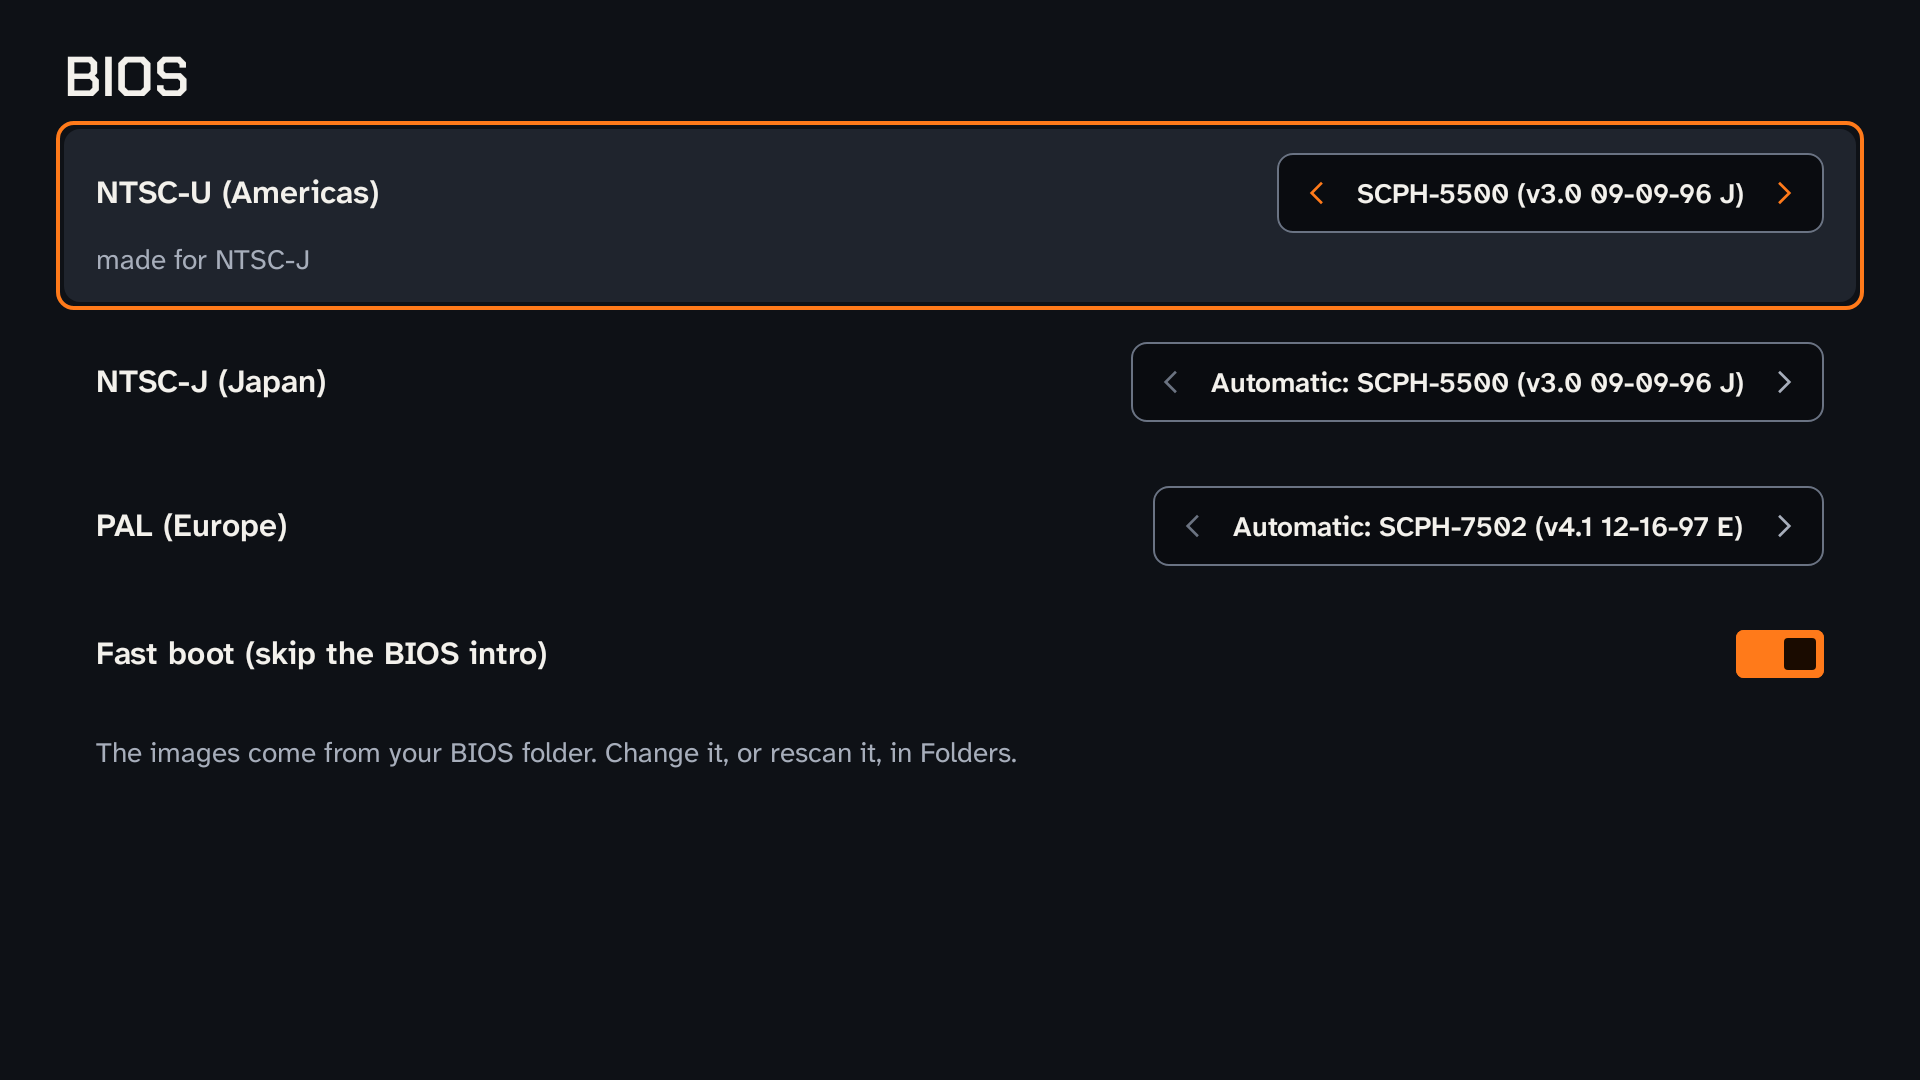
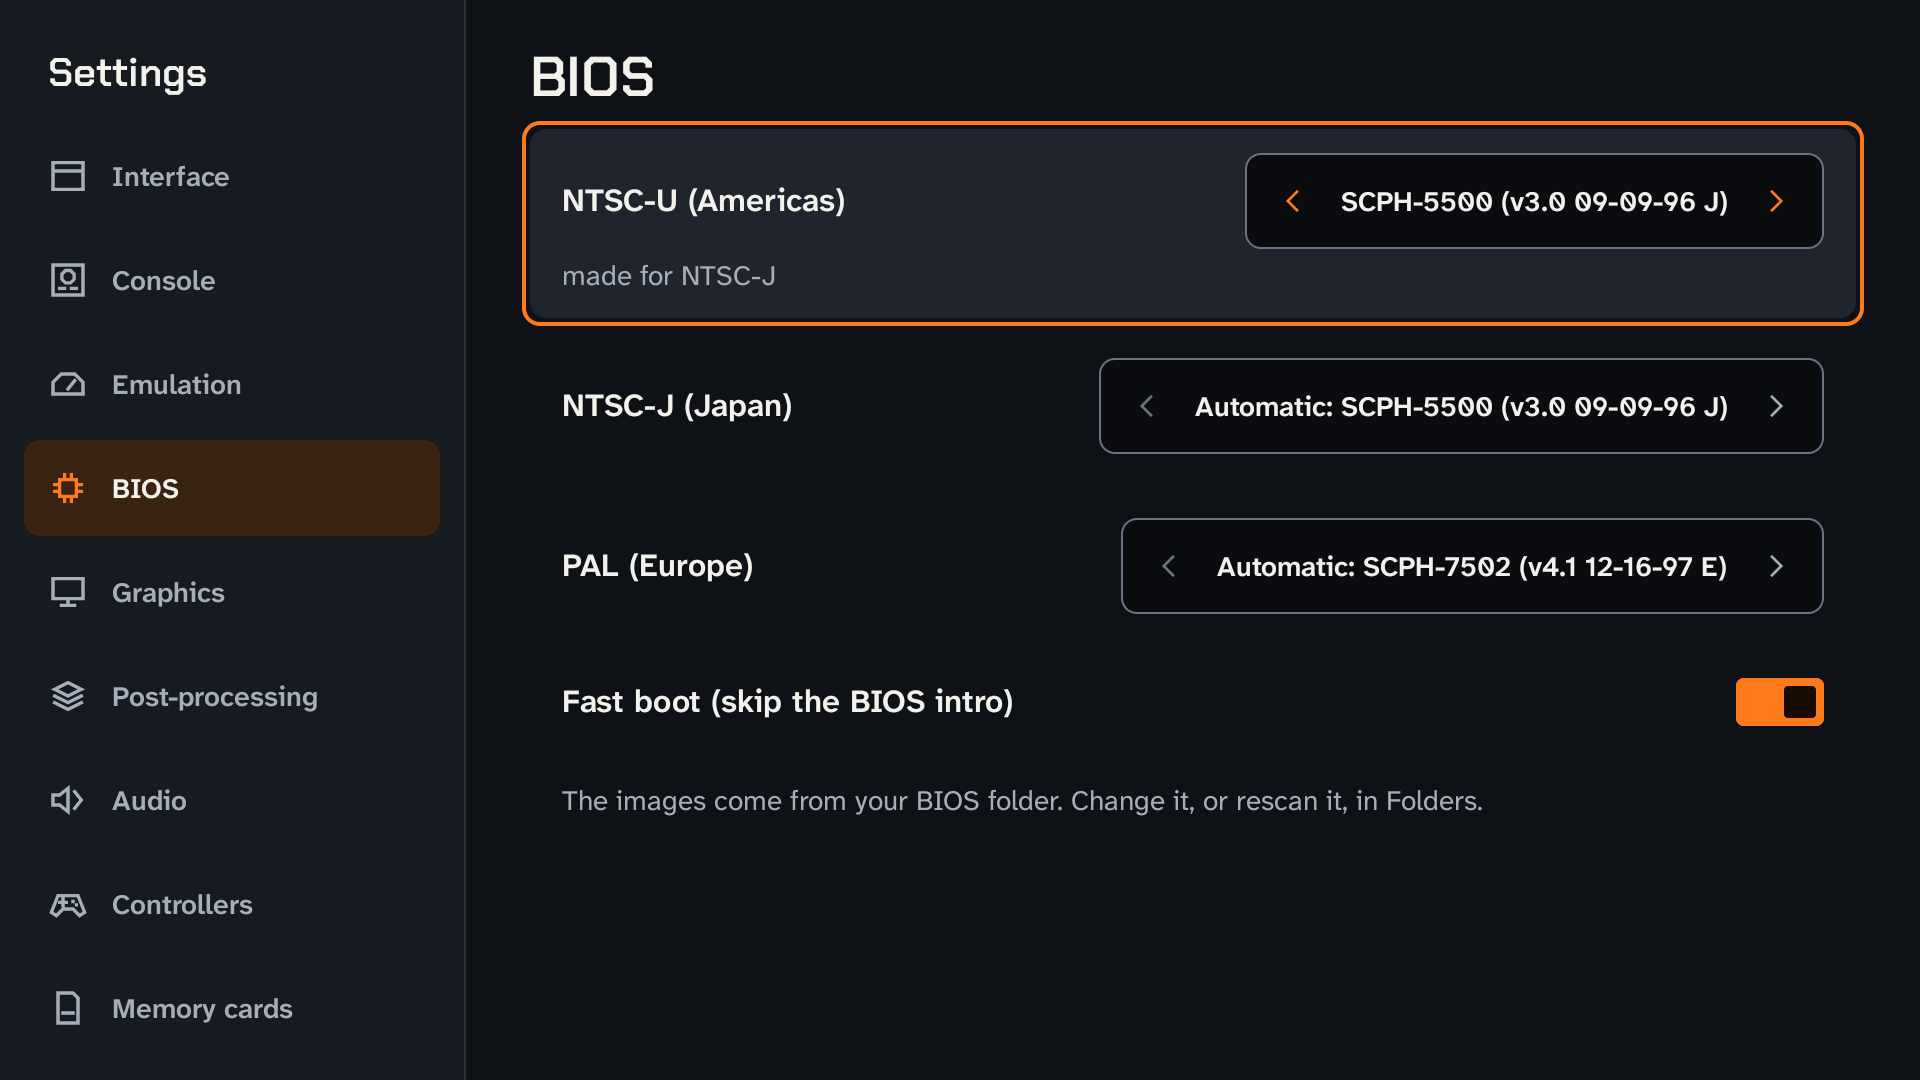
Docs: the settings' two panels in the screenshots, the checks and the roadmap
- docs/design-system/screenshots: settings.png, graphics.png and bios.png
  show the two panels (the settings as they open, then a page with the focus
  in it), and settings-list.png the categories as a narrow window lists
  them. Drawn from the Compose code on the Thor, at the other pictures'
  sizes.
- docs/design-system.md says what each picture is.
- docs/android.md: the Thor's results for #102's tests, a step for the
  panels in its checklist, and "the hub" where it meant the settings.
- docs/roadmap.md: the two panels in the Android frontend's row.

diff --git a/docs/roadmap.md b/docs/roadmap.md
@@ -44,7 +44,7 @@ built clean-room, from behaviour and our own design, never from DuckStation's co
 | 13 | ~~Updated dependencies.~~ Done (#16): Qt 6.12 LTS (macOS 14.4+), SDL2 2.32.10, VS 2026 on the `windows-2025` runner, clang 21 on Linux, Xcode 16.4 on `macos-15` (`macos-14` is deprecated), and the Flatpak on the KDE 6.11 runtime. | M | 1 |
 | 14 | ~~Text entry in Big Picture.~~ Done (#17), through the platforms' own keyboards rather than one of ours (upstream's on-screen keyboard is in [Later](#later)). Big Picture tells the host when a text field starts and stops being edited; under Steam (a Steam Deck in game mode, Big Picture mode) that shows Steam's keyboard, with the number pad for number fields, unless the field was opened with a physical keyboard. Ctrl+V (Cmd+V on macOS), and X (Square on PlayStation pads) in the text input dialog, paste the first line of the system clipboard. Still unchecked on a Steam Deck: whether Steam asks for its keyboard for a non-Steam shortcut, and whether the Flatpak opens `steam://` links without asking which app to use. Android's own screens are native, so they use Android's keyboard directly (item 16). | S | none |
 | 15 | ~~SDL3.~~ Done (#19): SDL 3.4 replaces SDL2 as a drop-in (SDL2 gets fixes only now; support for new controllers lands in SDL3), for controller input and the SDL audio backend, with the same features, bindings and settings. Not motion sensors or the touchpad, which PS1 games have no use for. Still unchecked, for lack of a controller: hot-plugging, rumble and LEDs, DualShock 4/DualSense over Bluetooth with enhanced mode off and on, and Switch controllers' analog sticks and face-button bindings. | M | 13 |
-| 16 | Android frontend, our own and written independently (not DuckStation's closed-source app, not RetroArch). The emusync Android library already exists. Its screens are native Android ones, so text entry uses Android's keyboard. Stage 1, Plan 1 (the emulator on Android) is done (#23); Plan 2 (storage, setup and the library: the folder picker, the data folder's mirror, and a cover grid) is done (#25). Plan 3 (settings, remapping and the Back prompt) is done (#29), which completes Stage 1. The in-game menu followed in three parts: part 1 (save states with screenshots, a resume state, fast forward, analog mode, screenshot, reset, hotkeys and on-screen messages) is done (#33), part 2 (multi-disc games as one tile, Change disc, one set of saves per game, patch codes) is done (#37), and part 3 (RetroAchievements: sign-in with the token in the Keystore, hardcore mode, the achievements and leaderboards in the menu, unlocks over the game) is done (#38). Achievements without a connection followed: unlocks and entries kept on the device and sent, backdated, once the network is back, and a game started offline running in casual from its saved set. Memory card sync followed, through emusync's Android library: the same settings page as desktop, secrets in the Keystore, sync on the working copy while the app is open (resting in the background), a badge in the library, and conflicts settled after the game (#41). The memory card editor followed: Settings → Memory cards → Manage cards, two cards side by side with everything the desktop editor does (copy, rename, export and import saves, delete and undelete, import a card, format), edits held until Save, and Save synced through emusync for the cards it knows. Android's settings followed, in four stages, and now have everything desktop has that works on Android, by desktop's keys: the global pages (#45), controllers with ports, types, macros, hotkeys and rumble (#48), settings for each game from its tile and its in-game menu (#51), and post-processing (both shader chains, from the shaders that run here) and Advanced (#52). On-screen touch controls followed, for phones and tablets without a controller: a full PS1 pad over the game (sticks in analog mode), shown in Automatic with no controller connected, Always or Off, at the player's size and opacity, driving Port 1. Save state management followed: desktop's shared (global) slots as a tab in Save and Load, a shared slot of another game starting that game, delete, Undo load in the menu (refused in hardcore mode, as loads are), and a game's Saves from its library tile (#63). Library sort and search followed: a compact top bar of icon buttons with labels on focus, Big Picture's sorts in its own keys (so a shared data folder sorts alike on desktop), and a search by title, file name or serial, Select jumping to it. Cover downloads followed: a Covers page in Settings with the player's own URL templates (one preset, xlenore's PSX cover collection, which the player can edit or remove; GooseStation hosts nothing), Save covers by serial, and Download covers, only when asked, for each library tile without a cover, cancellable mid-request, never replacing a cover, the covers landing on their tiles as they come. Published APKs followed: each rolling release carries a release APK signed with GooseStation's key (in a protected `release` environment, read only by the signing job of a release run on `master` or `dev`), with a version code that grows with each commit, R8's kept classes checked against what JNI looks up, and a test-key release build launched in the local test tiers; debug builds became GooseStation Debug (`.debug`), with a data folder of their own; and release builds check their channel for updates, as desktop does (a library banner with Update, What's new and Skip this version, the APK checked as this app's before Android's installer, and the Interface settings) (#72). | L | 12 |
+| 16 | Android frontend, our own and written independently (not DuckStation's closed-source app, not RetroArch). The emusync Android library already exists. Its screens are native Android ones, so text entry uses Android's keyboard. Stage 1, Plan 1 (the emulator on Android) is done (#23); Plan 2 (storage, setup and the library: the folder picker, the data folder's mirror, and a cover grid) is done (#25). Plan 3 (settings, remapping and the Back prompt) is done (#29), which completes Stage 1. The in-game menu followed in three parts: part 1 (save states with screenshots, a resume state, fast forward, analog mode, screenshot, reset, hotkeys and on-screen messages) is done (#33), part 2 (multi-disc games as one tile, Change disc, one set of saves per game, patch codes) is done (#37), and part 3 (RetroAchievements: sign-in with the token in the Keystore, hardcore mode, the achievements and leaderboards in the menu, unlocks over the game) is done (#38). Achievements without a connection followed: unlocks and entries kept on the device and sent, backdated, once the network is back, and a game started offline running in casual from its saved set. Memory card sync followed, through emusync's Android library: the same settings page as desktop, secrets in the Keystore, sync on the working copy while the app is open (resting in the background), a badge in the library, and conflicts settled after the game (#41). The memory card editor followed: Settings → Memory cards → Manage cards, two cards side by side with everything the desktop editor does (copy, rename, export and import saves, delete and undelete, import a card, format), edits held until Save, and Save synced through emusync for the cards it knows. Android's settings followed, in four stages, and now have everything desktop has that works on Android, by desktop's keys: the global pages (#45), controllers with ports, types, macros, hotkeys and rumble (#48), settings for each game from its tile and its in-game menu (#51), and post-processing (both shader chains, from the shaders that run here) and Advanced (#52). On-screen touch controls followed, for phones and tablets without a controller: a full PS1 pad over the game (sticks in analog mode), shown in Automatic with no controller connected, Always or Off, at the player's size and opacity, driving Port 1. Save state management followed: desktop's shared (global) slots as a tab in Save and Load, a shared slot of another game starting that game, delete, Undo load in the menu (refused in hardcore mode, as loads are), and a game's Saves from its library tile (#63). Library sort and search followed: a compact top bar of icon buttons with labels on focus, Big Picture's sorts in its own keys (so a shared data folder sorts alike on desktop), and a search by title, file name or serial, Select jumping to it. Cover downloads followed: a Covers page in Settings with the player's own URL templates (one preset, xlenore's PSX cover collection, which the player can edit or remove; GooseStation hosts nothing), Save covers by serial, and Download covers, only when asked, for each library tile without a cover, cancellable mid-request, never replacing a cover, the covers landing on their tiles as they come. Published APKs followed: each rolling release carries a release APK signed with GooseStation's key (in a protected `release` environment, read only by the signing job of a release run on `master` or `dev`), with a version code that grows with each commit, R8's kept classes checked against what JNI looks up, and a test-key release build launched in the local test tiers; debug builds became GooseStation Debug (`.debug`), with a data folder of their own; and release builds check their channel for updates, as desktop does (a library banner with Update, What's new and Skip this version, the APK checked as this app's before Android's installer, and the Interface settings) (#72). The settings then moved into two panels: their categories in a rail down the left, each with an icon, and the page of the one in focus beside them, with the list kept for a narrow window (#102). | L | 12 |
 
 ## 4. Upstream features (clean room)
 

diff --git a/docs/android.md b/docs/android.md
@@ -660,7 +660,7 @@ picks the layout, and `ui/SettingsPanels.kt` is the two panels.
   speed below 100% says "Runs at 100% in hardcore mode."; an overclock below 100% says "Off in hardcore mode below
   100%.". Run-ahead isn't refused.
 
-- **The hub opens whenever the folder settings could**: even when the core failed to start, or during setup's first
+- **The settings open whenever the folder settings could**: even when the core failed to start, or during setup's first
   pull, so the folders can still be picked again. The other pages need the core: until it has started (and its first
   catch-up pulls are done, see "The data folder and its mirror"), they're shown disabled, with "Available once
   GooseStation has started." (in the two panels, one line at the rail's foot: "The other settings are available once
@@ -784,7 +784,7 @@ adb shell am start -n io.github.ilyalissoboi.goosestation.debug/io.github.ilyali
 
 ### Post-processing
 
-**Post-processing**, after Graphics in the hub, edits the core's two shader chains, as Qt's two tabs do, one at a
+**Post-processing**, after Graphics in the settings' categories, edits the core's two shader chains, as Qt's two tabs do, one at a
 time: its **Chain** switch, first, picks **Display** (`[PostProcessing]`, over the picture at the screen's resolution)
 or **Internal** (`[InternalPostProcessing]`, at the internal resolution, before the picture is scaled), with a line
 saying which is which, and opens on Display each time. Under it, the chosen chain's **On** switch (`Enabled`), its
@@ -2278,6 +2278,23 @@ over adb (`input -d 0 keyevent`, screenshots of display 0), on Wi-Fi. A real dow
 Step 17's other checks (Cancel mid-run, a game started or Home mid-run, Wi-Fi off, removing and restoring the preset)
 are still to do.
 
+### The settings in two panels (2026-11-14)
+
+The instrumented `ui` tests of #102, on the Thor (832 x 420 dp, text 1.0×), the debug build installed beside the
+release one and removed after. Compose tests, driven by injected keys: nobody has yet used the panels in the running
+app with a controller (step 8 of the checks below has it).
+
+| Check | Result |
+|---|---|
+| `SettingsPanelsTest` | Pass, 16 of 16: the page follows the focus down the rail; A, Enter, Right and a tap go into it; B, Back and Left come back; the D-pad stops at the page's edges; a question over the page keeps the focus and gives it back; the system's Back is the rail's once the focus is back on it; a narrow window lists the categories. |
+| `FocusAuditTest` | Pass, 105 of 105, with the panels alone, with the focus in the page, and before the core starts. |
+| `OverlayHostTest` | 5 of 6. `closingItLetsTheScreenTakeTheFocusBack` fails, as on `master` before #102: the closing panel's focus trap refuses the screen's own request, and nothing is focused. The settings' panels take the focus back themselves; a screen outside them doesn't. |
+
+The whole `ui` package ran on `goose-test-1` before `master` was merged in: 796 tests, 2 failing, both in
+`OrientationLayoutTest` (`graphicsThroughEachRowsChoices` at 640 x 360 dp and text 1.3×, and
+`aRowStaysPutAsTheFocusMovesAlongIt` at 960 x 540 dp and text 1.3×), and both failing the same way on `master` at
+`1ed569942`. It hasn't run since the merge.
+
 ## Checks on the AYN Thor
 
 The full checklist, on the Thor itself, with a controller and headphones. Find the Thor's serial with
@@ -2406,6 +2423,14 @@ adb logcat -v time > thor.log
      Internal resolution, Aspect ratio, each BIOS region, the Controller row with a second pad connected), the
      Controllers page and a capture on it, then back to the library. The focused element always has a ring, B goes
      back a step, and each page's entry in the hub (or **Settings** in the library) has the focus again after it.
+   - [ ] The settings in two panels, with the built-in controller alone: they open on Interface, its category
+     focused and its page beside it. Down and Up change the page as they go, through every category. A, then Right,
+     go into the page on its first row; B, then Left from a toggle's row, come back to the category; Left on a
+     cycler's row steps it. In Controllers, open Port 1, come back to the rail with Left, and swipe Back: the
+     settings close (and B on the rail does the same). Touch a row of a page, then swipe Back from Port 1: one step
+     back in the page. Memory cards → Manage cards and back: the focus is in the Memory cards page.
+   - [ ] A question over a page (Post-processing, a favourite, Delete): the rail dims with the page; Cancel, and the
+     focus is back in the page, with B still working.
    - [ ] B also goes back from a page whose only focusable line does nothing: "Reading the settings…" while a page
      loads, and "Connect a controller to remap it." with no controller connected (the framework turns `BUTTON_B`
      into Back there).

diff --git a/docs/design-system.md b/docs/design-system.md
@@ -37,20 +37,25 @@ source for it. When a value changes, change `tokens.json` and the implementation
 
 The Android app's screens, in [`docs/design-system/screenshots/`](design-system/screenshots/): rendered from the
 Compose code, off a device, at a handheld's 960 x 540 dp in landscape (the AYN Thor's) and a phone's 411 x 891 dp in
-portrait. The Controllers page, with its PlayStation glyphs, is the page's composable alone at 960 x 540 dp too,
-rendered on the emulator. The pause menu and its slot panel are from the emulator, a phone in landscape (914 x 411
-dp), over Ace Combat 3. The orange outline is the focus, where a controller is. The settings' picture is of their
-list, which a narrow window still shows; from 600 dp wide they're in two panels (see Settings, below).
+portrait. The settings are in their two panels: as they open, on Interface with the focus on its category, then the
+Graphics and BIOS pages with the focus in the page and their category marked in the rail. Those three, and the
+settings' list (what a window under 600 dp wide shows in the panels' place), are the Compose code drawn on the Thor
+at the same sizes, two pixels to the dp for the handheld's and three for the phone's. The Controllers page, with its
+PlayStation glyphs, is the page's composable alone at 960 x 540 dp, rendered on the emulator: in the app it sits
+beside the rail, as Graphics does. The pause menu and its slot panel are from the emulator, a phone in landscape
+(914 x 411 dp), over Ace Combat 3. The orange outline is the focus, where a controller is.
 
 | | |
 | --- | --- |
 | ![The library as a grid, with a warning notice](design-system/screenshots/library-grid.png) | ![The library as a list, scanning](design-system/screenshots/library-list.png) |
-| ![The settings hub](design-system/screenshots/settings.png) | ![The Graphics page: cyclers and a toggle](design-system/screenshots/graphics.png) |
-| ![The BIOS page](design-system/screenshots/bios.png) | ![The Controllers page](design-system/screenshots/controllers.png) |
+| ![The settings as they open: the categories' rail, the focus on Interface, and its page beside it](design-system/screenshots/settings.png) | ![The Graphics page beside the rail, the focus on its first row: cyclers under a section heading](design-system/screenshots/graphics.png) |
+| ![The BIOS page beside the rail](design-system/screenshots/bios.png) | ![The Controllers page](design-system/screenshots/controllers.png) |
 | ![Setup's welcome](design-system/screenshots/setup.png) | ![The pause menu over a game](design-system/screenshots/pause.png) |
 | ![The Load state slot panel beside the pause menu](design-system/screenshots/save-slots.png) | |
 
-![The library on a phone, in portrait](design-system/screenshots/library-phone.png)
+| | |
+| --- | --- |
+| ![The library on a phone, in portrait](design-system/screenshots/library-phone.png) | ![The settings' categories as a list, each with its icon and a summary, in a narrow window](design-system/screenshots/settings-list.png) |
 
 ## Principles
 
